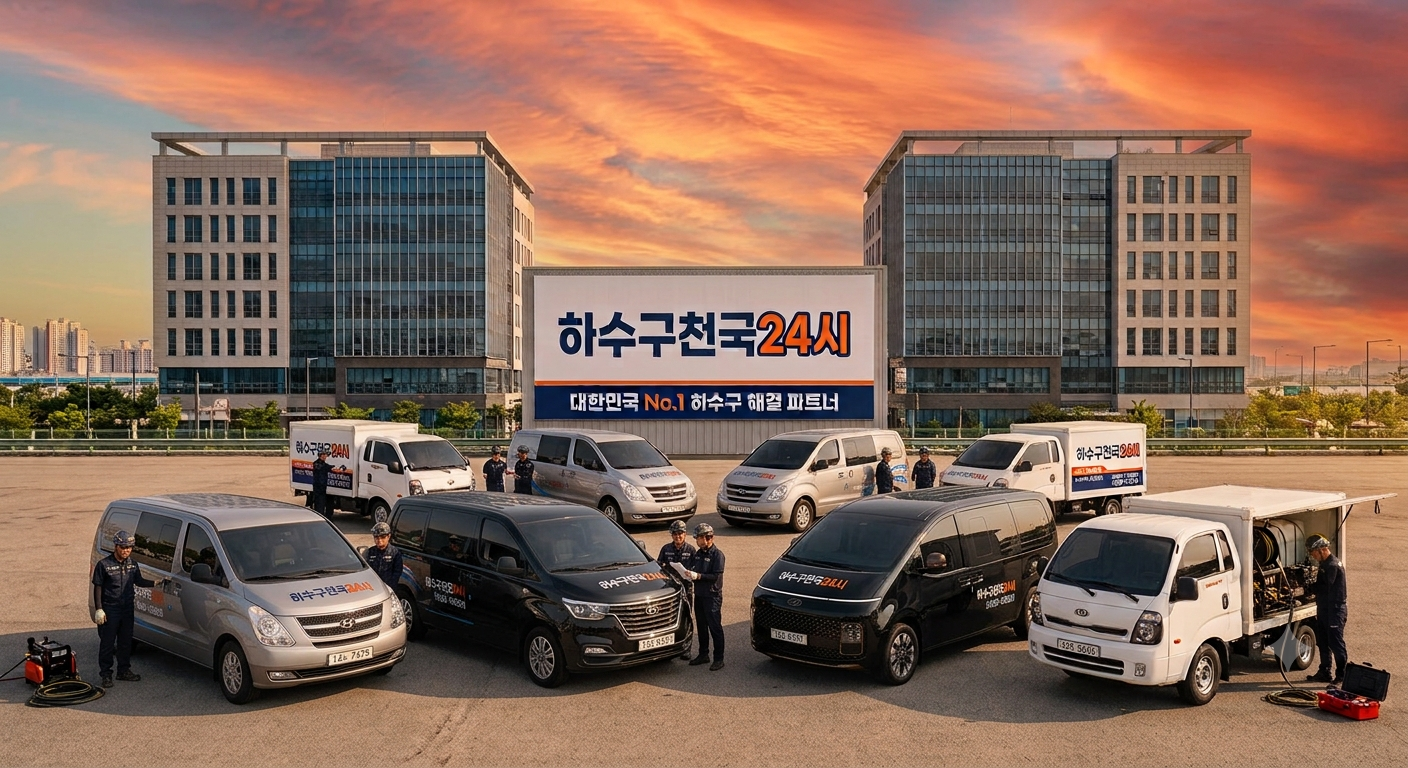
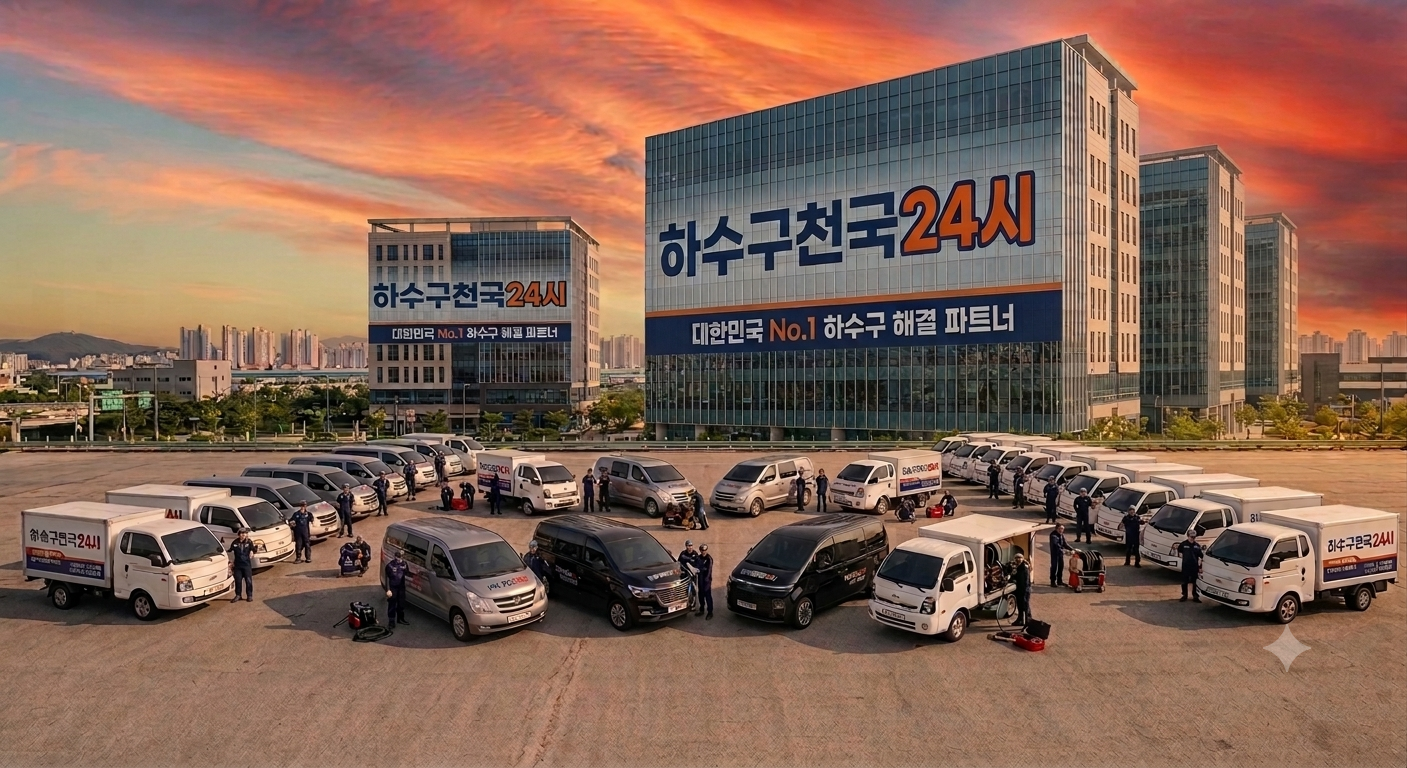
히어로 배경 사진을 새 사진으로 교체하고 큰 간판이 크고 오른쪽에 보이도록 확대/위치 조정

diff --git a/index.html b/index.html
@@ -95,8 +95,8 @@
     }
     .hero-grid::before {
       content: ""; position: absolute; inset: -8px; z-index: -2;
-      background-image: url("hero-main.png"); background-size: cover; background-position: center 40%;
-      filter: blur(0.5px) saturate(1.1) brightness(1.2); transform: scale(1.02);
+      background-image: url("hero-main.png"); background-size: cover; background-position: 70% 26%;
+      filter: blur(0.5px) saturate(1.1) brightness(1.2); transform: scale(1.5);
     }
     .hero-card {
       position: relative; max-width: 660px;
